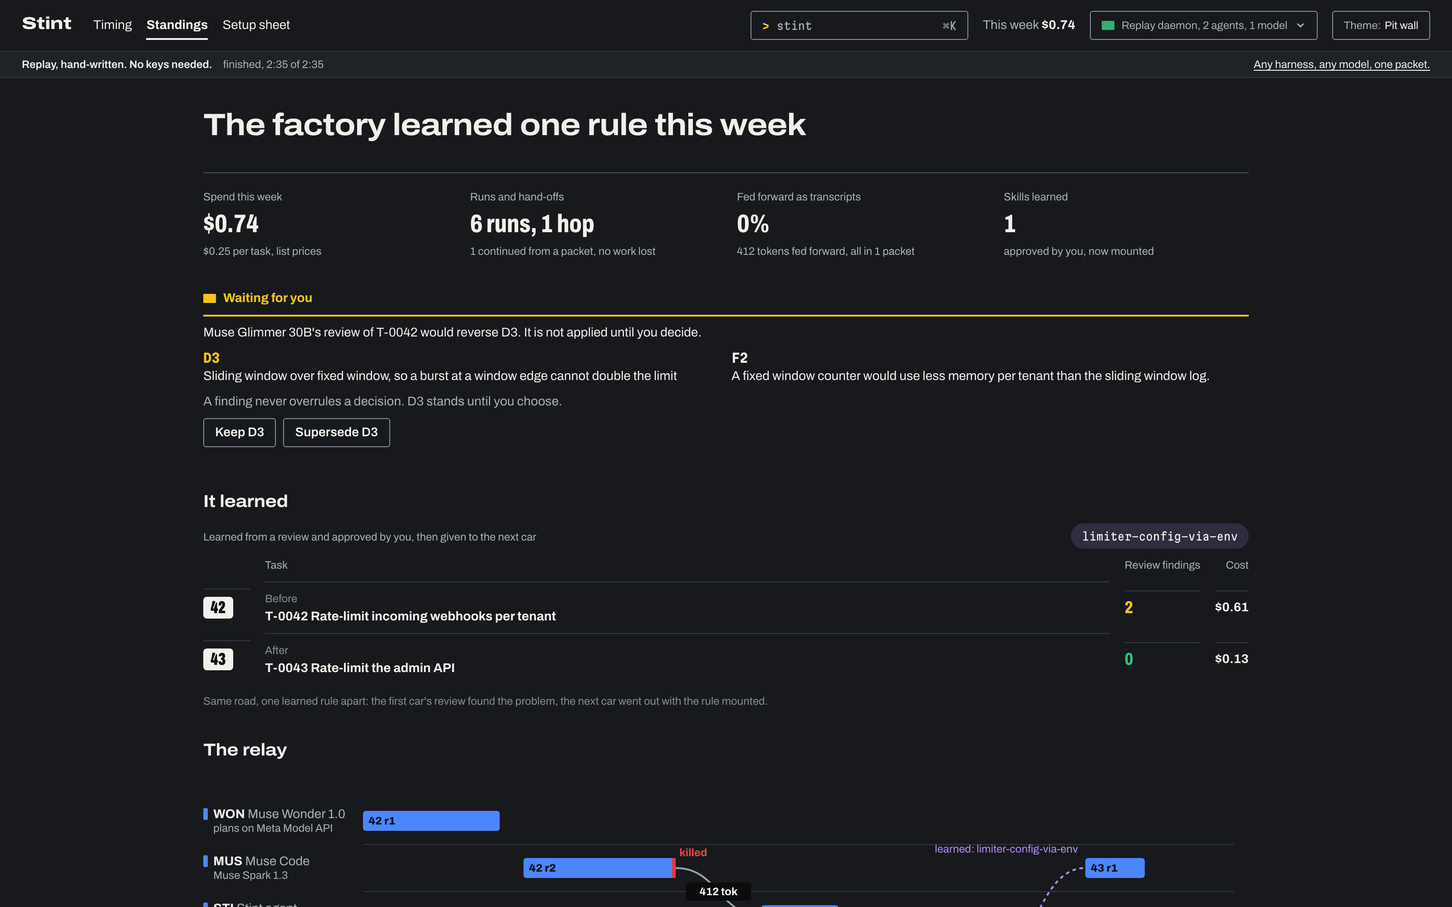
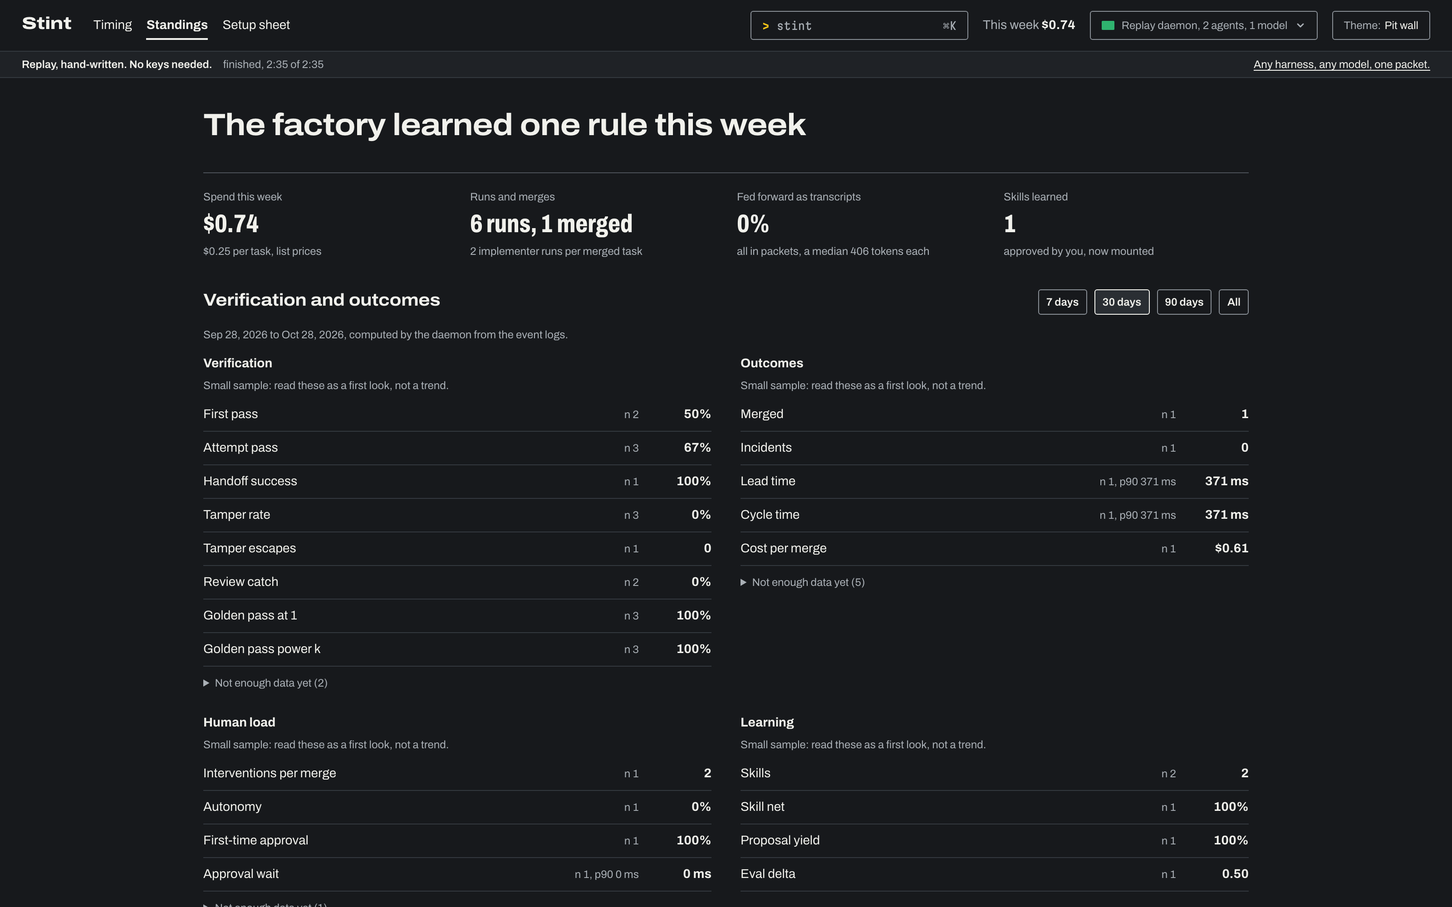
R-061: Standings shows verification and outcomes, from one metrics response
The panel reads /api/metrics with a window switch, marks small samples, keeps
metrics without data behind a disclosure and links each label to its
definition; the figures row reads the same response. R-061 is done.

Spec: R-061

diff --git a/apps/web/src/routes/Factory.tsx b/apps/web/src/routes/Factory.tsx
@@ -1,8 +1,10 @@
+import type { Metrics } from '@stint-dev/core';
 import { useEffect, useMemo, useState } from 'react';
 import { Link, useLocation } from 'react-router';
 import { ADAPTER_NAMES, type Mark, ROLE_NAMES, TEAM_NAMES, agentOf, carNumber, hostMark, hostName, markColor, modelName } from '../agents';
-import { type BenchData, type BenchMode, type CostRow, type Gardening, type Health, type PhaseGates, type RiskState, type ScoreRow, api } from '../api';
+import { type BenchData, type BenchMode, type CostRow, type Gardening, type Health, type PhaseGates, type RiskState, type ScoreRow, api, daemonMessage } from '../api';
 import { Queue, WorkspaceMemory } from '../components/MemoryPanel';
+import { MetricsPanel, type WindowName, metricValue } from '../components/MetricsPanel';
 import { Relay } from '../components/Relay';
 import { Button, EmptyState, Plate, StatusChip, Swatch, VendorMark, cx } from '../components/ui';
 import { money, tokens } from '../format';
@@ -673,10 +675,26 @@ export function Factory() {
   const upkeep = useLoad(() => api.gardening(), []);
   const gates = useLoad(() => api.phaseGates(), []);
   const bench = useLoad(() => api.bench(), []);
-  const [handoffs, setHandoffs] = useState<number | null>(null);
   const [learned, setLearned] = useState(0);
   const [outcomeRows, setOutcomeRows] = useState<OutcomeRow[] | null>(null);
-  const [fedForward, setFedForward] = useState<{ packetTokens: number; hops: number } | null>(null);
+  // one response for the figures row and the panel, for the window the panel shows (R-061)
+  const [span, setSpan] = useState<WindowName>('30d');
+  const [metrics, setMetrics] = useState<{ data: Metrics | null; error: string | null }>({ data: null, error: null });
+  useEffect(() => {
+    let live = true;
+    api
+      .metrics(span)
+      .then((data) => live && setMetrics({ data, error: null }))
+      .catch((e: unknown) => live && setMetrics((m) => ({ data: m.data, error: daemonMessage(e) })));
+    return () => {
+      live = false;
+    };
+  }, [span]);
+  const metric = (group: keyof Metrics['groups'], id: string) => metrics.data?.groups[group].find((m) => m.id === id) ?? null;
+  const merges = metric('outcome', 'outcome.merged');
+  const hops = metric('efficiency', 'efficiency.hops');
+  const transcripts = metric('efficiency', 'efficiency.transcript_share');
+  const packetTokens = metric('efficiency', 'efficiency.packet_tokens');
   const [funnel, setFunnel] = useState<Record<string, number> | null>(null);
   const [spendByCar, setSpendByCar] = useState<Array<{ task: string; total: number; teams: Array<[Mark, number]> }> | null>(null);
   useEffect(() => {
@@ -685,11 +703,6 @@ export function Factory() {
     Promise.all(cards.map((c) => api.events(c.task.id)))
       .then((all) => {
         if (!live) return;
-        setHandoffs(all.flat().filter((e) => e.type === 'run.started' && e.payload.handoffFrom).length);
-        // What was fed forward into continued runs, counted from the packets those runs started from (R-052).
-        // Transcripts are kept for audit and never fed forward, so every fed-forward token here is packet tokens.
-        let packetTokens = 0;
-        let hops = 0;
         // The loops funnel: distinct tasks that entered each stage in the 7 days up to the last event (R-052).
         const latest = Math.max(0, ...all.flat().map((e) => Date.parse(e.ts)));
         const since = latest - 7 * 86_400_000;
@@ -697,20 +710,13 @@ export function Factory() {
         const enter = (state: string, task: string) => (entered.get(state) ?? entered.set(state, new Set()).get(state))?.add(task);
         for (const [i, events] of all.entries()) {
           const task = cards[i]?.task.id ?? events[0]?.task ?? '';
-          const packets = new Map<string, number>();
-          for (const e of events) if (e.type === 'handoff.created' && typeof e.payload.name === 'string') packets.set(e.payload.name, Number(e.payload.tokens) || 0);
           for (const e of events) {
-            if (e.type === 'run.started' && typeof e.payload.handoffFrom === 'string') {
-              hops += 1;
-              packetTokens += packets.get(e.payload.handoffFrom) ?? 0;
-            }
             const t = Date.parse(e.ts);
             if (t < since || t > latest) continue;
             if (e.type === 'task.created') enter('planned', task);
             else if (e.type === 'task.status' && typeof e.payload.to === 'string') enter(e.payload.to, task);
           }
         }
-        setFedForward({ packetTokens, hops });
         // what each car cost, by the team of the driver whose stint spent it
         const cars = all.flatMap((events, i) => {
           const card = cards[i];
@@ -786,17 +792,21 @@ export function Factory() {
 
         <dl className="m-0 grid grid-cols-2 lg:grid-cols-4 gap-x-6 gap-y-4 border-t border-rule-strong pt-4" data-testid="kpis">
           <Figure label="Spend this week" value={`$${week.toFixed(2)}`} detail={cards?.length ? `$${(week / cards.length).toFixed(2)} per task, list prices` : undefined} />
-          <Figure label="Runs and hand-offs" value={`${runs} run${runs === 1 ? '' : 's'}${handoffs ? `, ${handoffs} hop${handoffs === 1 ? '' : 's'}` : ''}`} detail={handoffs === null ? undefined : handoffs ? `${handoffs} continued from a packet, no work lost` : 'every run was the first on its task'} />
+          <Figure
+            label="Runs and merges"
+            value={`${runs} run${runs === 1 ? '' : 's'}${merges?.value ? `, ${merges.value} merged` : ''}`}
+            detail={hops?.value !== null && hops?.value !== undefined ? `${metricValue(hops)} implementer runs per merged task` : 'no merges in this window yet'}
+          />
           <Figure
             label="Fed forward as transcripts"
-            value="0%"
-            detail={fedForward ? `${tokens(fedForward.packetTokens)} tokens fed forward, all in ${fedForward.hops} packet${fedForward.hops === 1 ? '' : 's'}` : 'packets, never transcripts'}
+            value={transcripts?.value !== null && transcripts?.value !== undefined ? metricValue(transcripts) : '0%'}
+            detail={packetTokens?.value !== null && packetTokens?.value !== undefined ? `all in packets, a median ${metricValue(packetTokens)} each` : 'packets, never transcripts'}
             testId="kpi-transcript-share"
           />
           <Figure label="Skills learned" value={String(learned)} detail={learned ? 'approved by you, now mounted' : 'none proposed yet'} />
         </dl>
 
-        {/* R-061's Verification and outcomes panel goes here, right after the figures */}
+        <MetricsPanel data={metrics.data} error={metrics.error} window={span} onWindow={setSpan} />
 
         <Queue />
 

diff --git a/apps/web/src/components/MetricsPanel.tsx b/apps/web/src/components/MetricsPanel.tsx
@@ -1,0 +1,135 @@
+import type { MetricValue, Metrics } from '@stint-dev/core';
+import { localDate } from '../format';
+import { Button, EmptyState, cx } from './ui';
+
+export const WINDOWS = [
+  ['7d', '7 days'],
+  ['30d', '30 days'],
+  ['90d', '90 days'],
+  ['all', 'All'],
+] as const;
+export type WindowName = (typeof WINDOWS)[number][0];
+
+/** The four groups the panel shows; efficiency feeds the figures row above it. */
+const GROUPS: Array<[keyof Metrics['groups'], string]> = [
+  ['verification', 'Verification'],
+  ['outcome', 'Outcomes'],
+  ['human', 'Human load'],
+  ['learning', 'Learning'],
+];
+
+/** The definitions live in the repository's docs; the UI runs offline, so the link is to the published page. */
+export const definitionUrl = (id: string) => `https://github.com/QuintinBotes/stint/blob/main/docs/metrics.md#${id}`;
+
+/** A duration in the largest unit that keeps it readable. */
+function duration(ms: number): string {
+  if (ms < 1000) return `${Math.round(ms)} ms`;
+  if (ms < 60_000) return `${(ms / 1000).toFixed(1)} s`;
+  if (ms < 3_600_000) return `${Math.round(ms / 60_000)} min`;
+  if (ms < 172_800_000) return `${(ms / 3_600_000).toFixed(1)} h`;
+  return `${(ms / 86_400_000).toFixed(1)} days`;
+}
+
+/** A metric's value in its unit: ratios as percents, money in dollars, times as durations. */
+export function metricValue(m: Pick<MetricValue, 'unit' | 'value'>): string {
+  const v = m.value;
+  if (v === null) return 'not enough data';
+  if (m.unit === 'ratio') return `${Math.round(v * 100)}%`;
+  if (m.unit === 'usd') return `$${v.toFixed(2)}`;
+  if (m.unit === 'ms') return duration(v);
+  if (m.unit === 'tokens') return `${Math.round(v).toLocaleString('en-US')} tokens`;
+  return Number.isInteger(v) ? String(v) : v.toFixed(2);
+}
+
+function Label({ m }: { m: MetricValue }) {
+  return (
+    <a href={definitionUrl(m.id)} target="_blank" rel="noreferrer" title={m.definition} className="underline-offset-2 hover:underline" data-testid="metric-link">
+      {m.label}
+      <span className="sr-only">, opens its definition</span>
+    </a>
+  );
+}
+
+function Figure({ m }: { m: MetricValue }) {
+  return (
+    <div className="grid grid-cols-[minmax(0,1fr)_auto_auto] items-baseline gap-x-4 py-2 border-b border-rule" data-testid="metric" data-metric={m.id}>
+      <dt className="text-[14px] min-w-0">
+        <Label m={m} />
+      </dt>
+      <dd className="m-0 text-[12px] text-ink-2 tabular text-right">
+        n {m.n}
+        {m.p90 !== undefined && m.unit === 'ms' ? `, p90 ${duration(m.p90)}` : ''}
+        {m.target ? (
+          <span className={cx('ml-2 font-bold', m.target.met ? 'text-green' : 'text-yellow')} data-testid="metric-target">
+            {m.target.met ? 'on target' : 'below target'}
+          </span>
+        ) : null}
+      </dd>
+      <dd className="m-0 min-w-16 text-[14px] font-bold tabular text-right">{metricValue(m)}</dd>
+    </div>
+  );
+}
+
+/**
+ * R-061's panel: the four groups of `GET /api/metrics` for one window. Small samples are said once per group, and the
+ * metrics with no value yet wait behind one disclosure, so the panel reads as figures, not as a wall of dashes.
+ */
+export function MetricsPanel({ data, error, window, onWindow }: { data: Metrics | null; error: string | null; window: WindowName; onWindow: (w: WindowName) => void }) {
+  return (
+    <section className="flex flex-col gap-3 min-w-0" data-testid="panel-metrics" aria-labelledby="metrics-title">
+      <div className="flex flex-wrap items-baseline justify-between gap-x-4 gap-y-2">
+        <h2 id="metrics-title" className="text-[19px] leading-6 font-bold stretch-112 tracking-[-0.01em]">
+          Verification and outcomes
+        </h2>
+        <div className="flex flex-wrap items-center gap-2" role="group" aria-label="Window">
+          {WINDOWS.map(([id, name]) => (
+            <Button key={id} className="h-7 px-2 text-[12px]" aria-pressed={window === id} onClick={() => onWindow(id)} data-testid={`metrics-window-${id}`}>
+              {name}
+            </Button>
+          ))}
+        </div>
+      </div>
+      {error ? <EmptyState testId="metrics-error">The metrics could not be read: {error}. Reload the page; if it stays, check the daemon log.</EmptyState> : null}
+      {!data && !error ? <p className="text-[12px] text-ink-2">Reading the metrics.</p> : null}
+      {data ? (
+        <>
+          <p className="text-[12px] text-ink-2" data-testid="metrics-window">
+            {data.window.from ? `${localDate(data.window.from)} to ${localDate(data.window.to)}` : `Everything up to ${localDate(data.window.to)}`}, computed by the daemon from the event logs.
+          </p>
+          <div className="grid gap-x-8 gap-y-6 md:grid-cols-2">
+            {GROUPS.map(([key, title]) => {
+              const all = data.groups[key];
+              const known = all.filter((m) => m.value !== null);
+              const missing = all.filter((m) => m.value === null);
+              return (
+                <section key={key} className="min-w-0 flex flex-col gap-1" data-testid={`metrics-${key}`} aria-labelledby={`metrics-${key}-title`}>
+                  <h3 id={`metrics-${key}-title`} className="text-[14px] font-bold">
+                    {title}
+                  </h3>
+                  {known.some((m) => m.small) ? <p className="text-[12px] text-ink-2">Small sample: read these as a first look, not a trend.</p> : null}
+                  <dl className="m-0 flex flex-col">
+                    {known.map((m) => (
+                      <Figure key={m.id} m={m} />
+                    ))}
+                  </dl>
+                  {missing.length ? (
+                    <details className="mt-1 text-[12px] text-ink-2">
+                      <summary className="cursor-pointer hover:text-ink">Not enough data yet ({missing.length})</summary>
+                      <ul className="mt-1 flex flex-col gap-1">
+                        {missing.map((m) => (
+                          <li key={m.id} data-testid="metric" data-metric={m.id}>
+                            <Label m={m} />
+                          </li>
+                        ))}
+                      </ul>
+                    </details>
+                  ) : null}
+                </section>
+              );
+            })}
+          </div>
+        </>
+      ) : null}
+    </section>
+  );
+}

diff --git a/apps/web/e2e/factory.spec.ts b/apps/web/e2e/factory.spec.ts
@@ -117,3 +117,29 @@ test('The Factory shows the benchmark the fixture was measured with: transcript,
   }
   await expect(bench).toContainText(`commit ${plain.commit.slice(0, 7)}`);
 });
+
+test('Standings shows Verification and outcomes: four groups, a window switch that changes the window, and each label linked to its definition (R-061)', async ({ page }) => {
+  await page.goto('/factory');
+  const panel = page.getByTestId('panel-metrics');
+  await expect(panel).toBeVisible();
+  for (const group of ['verification', 'outcome', 'human', 'learning']) await expect(panel.getByTestId(`metrics-${group}`)).toBeVisible();
+  // 30 days is the default; switching to 7 days asks the daemon for that window and says the new range
+  await expect(panel.getByTestId('metrics-window-30d')).toHaveAttribute('aria-pressed', 'true');
+  const thirty = await panel.getByTestId('metrics-window').textContent();
+  const asked = page.waitForRequest((r) => r.url().includes('/api/metrics?window=7d'));
+  await panel.getByTestId('metrics-window-7d').click();
+  await asked;
+  await expect(panel.getByTestId('metrics-window-7d')).toHaveAttribute('aria-pressed', 'true');
+  await expect(panel.getByTestId('metrics-window')).not.toHaveText(thirty ?? '');
+  // every metric, shown or waiting for data, links to its own anchor in docs/metrics.md, and says it opens the definition
+  const metrics = panel.getByTestId('metric');
+  expect(await metrics.count()).toBeGreaterThan(10);
+  for (const m of await metrics.all()) {
+    const id = (await m.getAttribute('data-metric')) as string;
+    const link = m.getByTestId('metric-link');
+    await expect(link).toHaveAttribute('href', new RegExp(`docs/metrics\\.md#${id.replace('.', '\\.')}$`));
+    await expect(link).toContainText('opens its definition');
+  }
+  // the figures row reads the same response: the transcript share is efficiency.transcript_share
+  await expect(page.getByTestId('kpi-transcript-share')).toContainText('0%');
+});

diff --git a/apps/web/src/api.ts b/apps/web/src/api.ts
@@ -284,6 +284,7 @@ export const api = {
   phaseGates: () => request<PhaseGates>('/api/phase-gates'),
   bench: () => request<BenchData>('/api/bench'),
   relay: () => request<import('./components/Relay').RelayData>('/api/relay'),
+  metrics: (window: '7d' | '30d' | '90d' | 'all') => request<import('@stint-dev/core').Metrics>(`/api/metrics?window=${window}`),
   hand: (id: string, adapter: string, ask?: string) => post<{ run: string; packet: string }>(`/api/tasks/${id}/hand`, { adapter, ...(ask ? { ask } : {}) }),
   quiz: (id: string, name: string) => post<QuizResult>(`/api/tasks/${id}/handoffs/${name}/quiz`),
   stopRun: (id: string, run: string) => post<unknown>(`/api/tasks/${id}/runs/${run}/stop`),

diff --git a/PROGRESS.md b/PROGRESS.md
@@ -80,7 +80,7 @@ Shadow mode always records the policy's would-approve beside every approve, reje
 | R-058 | No client or employer names, and a guard that proves it in CI | none | done | author | 1 | 2026-10-27 | Shipped: the client platform's name is gone from every tracked file and, after the owner chose to rewrite, from every commit on main (the credits say re-implemented from earlier work on agent factories, no code taken); the earlier projects are no longer named anywhere (owner: Stint is the only project named); D-001 to D-006 By is author (D-047); the keyed list `scripts/guard-identity.denylist.hmac` with two entries and `scripts/denylist-hash.mjs` (D-048); the guard hashes tokens and adjacent pairs, never echoes a name, fails in CI without the key or entries, and checks commit messages with `--commits` per push and per pull request; spec references point at files in the repo; `docs/README.md` indexes every doc; `STINT_GUARD_KEY` in `.env.example`. Left out: other local branches (backups, workers) keep the old history and are never pushed. Verify (with the key): guard 0, `CI=true` guard 0, `--commits origin/main..HEAD` 0, `bun test scripts/test packages/core` 0, typecheck 0 |
 | R-059 | A README and a setup a stranger can follow | R-058 | done | author | 2 | 2026-10-27 | Shipped: the README in the ten sections (179 lines) with outputs taken from a real run of its own blocks; docs/setup.md (platforms, install, the key order, the first task, other agents, the offline review, updating, uninstalling); docs/proofs.md and docs/factory.md hold the proof material and the factory list; docs/support.md links to setup; loadKeys in core for the CLI and the daemon, `stint keys set|list`, `stint doctor [--json] [--repo]`, scripts/install-cli.sh; the commands test runs every README and setup block in a temporary HOME against a fixture copy with the fake agents (uninstall included), and fails on a made-up command; the links test checks every relative link, image and anchor in the README and docs/; the claims test reads docs/proofs.md, the quick start time from bench/quickstart.json (CI's quickstart job, 8 to 10 s after the clone) and the README's benchmark summary; the flow server imports the fakes it shares with the commands test; `stint init` prints the plugin path absolute from another repository. Left out: `stint keys set` at a real terminal (its no-echo path is covered by the stdin test only); the quick start time is recorded by hand from CI logs into bench/quickstart.json, not written by the job. Verify: `bun test packages/core packages/cli scripts/test`, `bun run typecheck`, the README line count, `install-cli.sh --dir`, `stint doctor --repo demo/repo --json` |
 | R-060 | Custom skills: write, import, upload, review, share | R-020, R-031, R-048 | in progress | muse-code/muse-wonder-full-1.0 | 1 | 2026-10-28 | Core shipped (written by Muse Code on Muse Wonder Full from a brief, reviewed and verified by the author, who added the upload and zip-count caps, D-053): the workspace log and `GET /api/workspace/events`; `validateSkillBundle` and `scanSkillBundle` in core with every pattern in packages/core/src/skills/patterns.ts; origin `import`, status `unreviewed`, `source`; proposals under .stint/cache/proposals with `skill.imported` and `skill.edit_proposed`; approve with the block and warn gate, both trailers and the folder digest as consent; unreviewed and stale skills stop mounting under `skills.requireReview`; `stint skills add|new|export|approve --ack`; `POST /api/skills/import` and `GET /api/skills/:id/export`; the no-evidence eval; docs/skills.md. Open: Requirement 13 and Acceptance 9, the Setup sheet UI and its upload flow test, after the UI rebuild lands. Left out: zip symlink modes are not visible through fflate, so zip entries are only ever written as regular files; mirroring to .claude/skills stays SKILL.md only (R-048's contract); the CLI zip test needs `zip` on the host. Verify: `bun test packages/core packages/daemon packages/cli`, `bun run typecheck` |
-| R-061 | Verification and outcome metrics, defined once | R-029, R-030, R-031, R-037, R-039, R-045, R-046 | in progress | muse-code/muse-wonder-full-1.0 | 1 | 2026-10-28 | Core shipped (written by Muse Code on Muse Wonder Full from a brief, reviewed and verified by the author): `metrics()` in packages/core/src/metrics with one function per id in defs/, `stint.metrics/1` with its zod mirror, example and agreement test, `GET /api/metrics` with windows, `by` and weekly series, `stint metrics [--window] [--by] [--json] [--check]`, `config.metrics` with unknown target ids refused, docs/metrics.md with an anchor per id, the metrics block in `stint report`, `stint otel export --metrics`; the eight-task fixture with the arithmetic per value; scoreboard and phase gate agreement (D-050). Open: Requirement 7 and Acceptance 7, the Standings panel, after the UI rebuild lands. Left out: the golden file's date and commit are not surfaced in a MetricValue (the schema has no field); learning and golden metrics repeat per breakdown key. Verify: `bun test packages/core packages/daemon packages/cli`, `bun run typecheck` |
+| R-061 | Verification and outcome metrics, defined once | R-029, R-030, R-031, R-037, R-039, R-045, R-046 | done | muse-code/muse-wonder-full-1.0 | 2 | 2026-10-28 | Shipped. Core (written by Muse Code on Muse Wonder Full from a brief, reviewed and verified by the author): `metrics()` in packages/core/src/metrics with one function per id in defs/, `stint.metrics/1` with its zod mirror, example and agreement test, `GET /api/metrics` with windows, `by` and weekly series, `stint metrics [--window] [--by] [--json] [--check]`, `config.metrics` with unknown target ids refused, docs/metrics.md with an anchor per id, the metrics block in `stint report`, `stint otel export --metrics`; the eight-task fixture with the arithmetic per value; scoreboard and phase gate agreement (D-050). Standings shows "Verification and outcomes" from one `/api/metrics` response, with a 7, 30, 90 day and All switch, small samples marked once per group, metrics without data behind a disclosure, and each label linked to its definition; the figures row reads `outcome.merged`, `efficiency.hops`, `efficiency.transcript_share` and `efficiency.packet_tokens` from the same response (Acceptance 7 in factory.spec.ts). Left out: the golden file's date and commit are not surfaced in a MetricValue (the schema has no field); learning and golden metrics repeat per breakdown key. Verify: `bun test packages/core packages/daemon packages/cli`, `bun run typecheck`, `bun run build:web && bun run test:ui` |
 
 ## Gates
 

diff --git a/docs/metrics.md b/docs/metrics.md
@@ -1,6 +1,6 @@
 # Metrics: verification and outcome numbers, defined once
 
-This page is for anyone who reads Stint's verification and outcome numbers or sets targets on them. Every number Stint shows about whether the factory works has one written definition, one implementation and one place to read it. The definitions are in this file. The implementation is `metrics()` in `packages/core/src/metrics/`, a pure projection over the per-task event logs. Read the numbers with `stint metrics`, at `GET /api/metrics`, or in the `stint report` metrics block. The output is `stint.metrics/1`; each value carries its sample size `n`, a `small` flag and a link back to its section here.
+This page is for anyone who reads Stint's verification and outcome numbers or sets targets on them. Every number Stint shows about whether the factory works has one written definition, one implementation and one place to read it. The definitions are in this file. The implementation is `metrics()` in `packages/core/src/metrics/`, a pure projection over the per-task event logs. Read the numbers with `stint metrics`, at `GET /api/metrics`, in the `stint report` metrics block, or on Standings in the web UI. The output is `stint.metrics/1`; each value carries its sample size `n`, a `small` flag and a link back to its section here.
 
 No metric reads a transcript or calls a model. Everything comes from the log, so a replay produces the same numbers as the live run did.
 
@@ -11,6 +11,10 @@ Shared terms:
 - A green run ended `completed` and its last verification is `green`. Tamper and scenario failures already make a verification red.
 - A mature merge merged at least `config.metrics.outcomeWindowDays` ago (default 7). Outcome rates use mature merges only. An outcome counts when its event falls within that many days after the merge.
 - By agent or model, a verification metric belongs to its implementer run; an outcome or human metric belongs to the resolving agent, the last implementer run before the merge. By tag, a task counts under each of its tags and under `*`.
+
+## On Standings
+
+Standings shows the panel "Verification and outcomes" right after its four figures. It has four groups: verification, outcomes, human load and learning. Each figure shows its value in its unit (a ratio as a percent, money in dollars, a time as a duration), its `n`, and "on target" or "below target" when you set a target. Each label links to its section on this page. A group says "small sample" once when any of its figures rests on fewer than five cases. Metrics with no value yet wait behind "Not enough data yet". A switch picks the window: 7, 30 or 90 days, or all; 30 days is the default. The figures row above reads the same response: merges from `outcome.merged`, runs per merged task from `efficiency.hops`, and the transcript share and packet size from `efficiency.transcript_share` and `efficiency.packet_tokens`. Spend this week keeps its own weekly source, since no metric is that number.
 
 ## Reading these numbers
 
